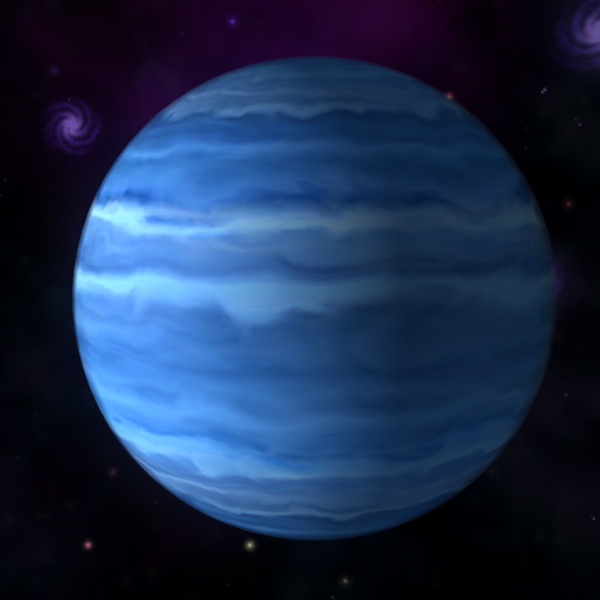
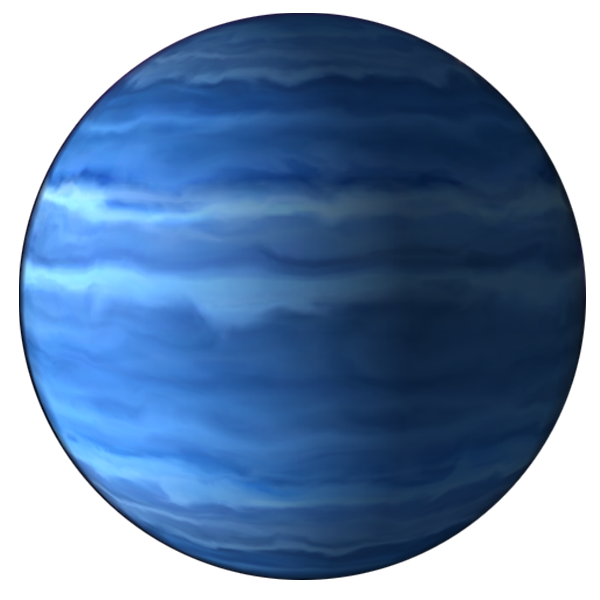
changed out jpg planet images for png, some changes to game.html

diff --git a/public/game.html b/public/game.html
@@ -48,12 +48,12 @@
                         </div>
                         <div class="panel-footer">
                             <div class="stats">
-                            <h3 id="health">Health: </h3>
-                            <h3 id="armor">Armor: </h3>
-                            <h3 id="speed">Speed: </h3>
-                            <h3 id="scanner">Scanner: </h3>
-                            <h3 id="crew">Crew: </h3>
-                            <h3 id="kills">Pirate Kills: </h3>
+                            <h3 id="health">Health: 600</h3>
+                            <h3 id="armor">Weapon: 25</h3>
+                            <h3 id="speed">Speed: 1</h3>
+                            <h3 id="scanner">Scanner: 1</h3>
+                            <h3 id="crew">Crew: 10</h3>
+                            <h3 id="kills">Pirate Kills: 0</h3>
                         </div>
                         </div>
                         </div>
@@ -78,6 +78,41 @@
                         </div>
                     </div>
                     </div>
+                    <div class="col-md-12">
+                        <h3>Quick Links to Other Pages</h3>
+                    </div>
+                    <div class="col-md-1"></div>
+                    <div class="col-md-1">
+                        <a href="./planets/mercury.html"><h3>Mercury</h3></a>
+                    </div>
+                    <div class="col-md-1">
+                        <a href="./planets/venus.html"><h3>Venus</h3></a>
+                    </div>
+                    <div class="col-md-1">
+                        <a href="./planets/earth.html"><h3>Earth</h3></a>
+                    </div>
+                    <div class="col-md-1">
+                        <a href="./planets/mars.html"><h3>Mars</h3></a>
+                    </div>
+                    <div class="col-md-1">
+                        <a href="./planets/jupiter.html"><h3>Jupiter</h3></a>
+                    </div>
+                    <div class="col-md-1">
+                        <a href="./planets/saturn.html"><h3>Saturn</h3></a>
+                    </div>
+                    <div class="col-md-1">
+                        <a href="./planets/uranus.html"><h3>Uranus</h3></a>
+                    </div>
+                    <div class="col-md-1">
+                        <a href="./planets/neptune.html"><h3>Neptune</h3></a>
+                    </div>
+                    <div class="col-md-1">
+                        <a href="./planets/pluto.html"><h3>Pluto</h3></a>
+                    </div>
+                    <div class="col-md-1">
+                        <a href="./battle.html"><h3>Battle</h3></a>
+                    </div>
+                    <div class="col-md-1"></div>
                 </div>
             </body>
             <script type="text/javascript" src="./js/GameMovement.js"></script>

diff --git a/public/planets/jupiter.html b/public/planets/jupiter.html
@@ -24,7 +24,7 @@
 			<img src="../img/planets/jupiter_title.png">
 		</div>
 		<div class="col-md-5">
-			<img src="../img/planets/jupiter_big.jpg">
+			<img src="../img/planets/jupiter_big.png">
 		</div>
 		<div class="col-md-2"></div>
 		<div class="col-md-5">

diff --git a/public/planets/mercury.html b/public/planets/mercury.html
@@ -24,7 +24,7 @@
 			<img src="../img/planets/mercury_title.png">
 		</div>
 		<div class="col-md-5">
-			<img src="../img/planets/mercury_big.jpg">
+			<img src="../img/planets/mercury_big.png">
 		</div>
 		<div class="col-md-2"></div>
 		<div class="col-md-5">

diff --git a/public/planets/saturn.html b/public/planets/saturn.html
@@ -24,7 +24,7 @@
 			<img src="../img/planets/saturn_title.png">
 		</div>
 		<div class="col-md-5">
-			<img src="../img/planets/saturn_big.jpg">
+			<img src="../img/planets/saturn_big.png">
 		</div>
 		<div class="col-md-2"></div>
 		<div class="col-md-5">

diff --git a/public/planets/earth.html b/public/planets/earth.html
@@ -25,7 +25,7 @@
 			<img src="../img/planets/earth_title.png">
 		</div>
 		<div class="col-md-5">
-			<img src="../img/planets/earth_big.jpg">
+			<img src="../img/planets/earth_big.png">
 		</div>
 		<div class="col-md-2"></div>
 		<div class="col-md-5">

diff --git a/public/planets/pluto.html b/public/planets/pluto.html
@@ -24,7 +24,7 @@
 			<img src="../img/planets/pluto_title.png">
 		</div>
 		<div class="col-md-5">
-			<img src="../img/planets/pluto_big.jpg">
+			<img src="../img/planets/pluto_big.png">
 		</div>
 		<div class="col-md-2"></div>
 		<div class="col-md-5">

diff --git a/public/planets/venus.html b/public/planets/venus.html
@@ -24,7 +24,7 @@
 			<img src="../img/planets/venus_title.png">
 		</div>
 		<div class="col-md-5">
-			<img src="../img/planets/venus_big.jpg">
+			<img src="../img/planets/venus_big.png">
 		</div>
 		<div class="col-md-2"></div>
 		<div class="col-md-5">

diff --git a/public/planets/mars.html b/public/planets/mars.html
@@ -27,7 +27,7 @@
 	</div>
 	<div class="row">
 		<div class="col-md-5" id="mars">
-			<img src="../img/planets/mars_big.jpg">
+			<img src="../img/planets/mars_big.png">
 		</div>
 		<div class="col-md-2"></div>
 		<div class="col-md-5">

diff --git a/public/css/style.css b/public/css/style.css
@@ -57,6 +57,10 @@ input {
 	text-align: center;
 }
 
+.col-md-1 {
+	text-align: center;
+}
+
 #mars {
 	float: left;
 	text-align: left;
